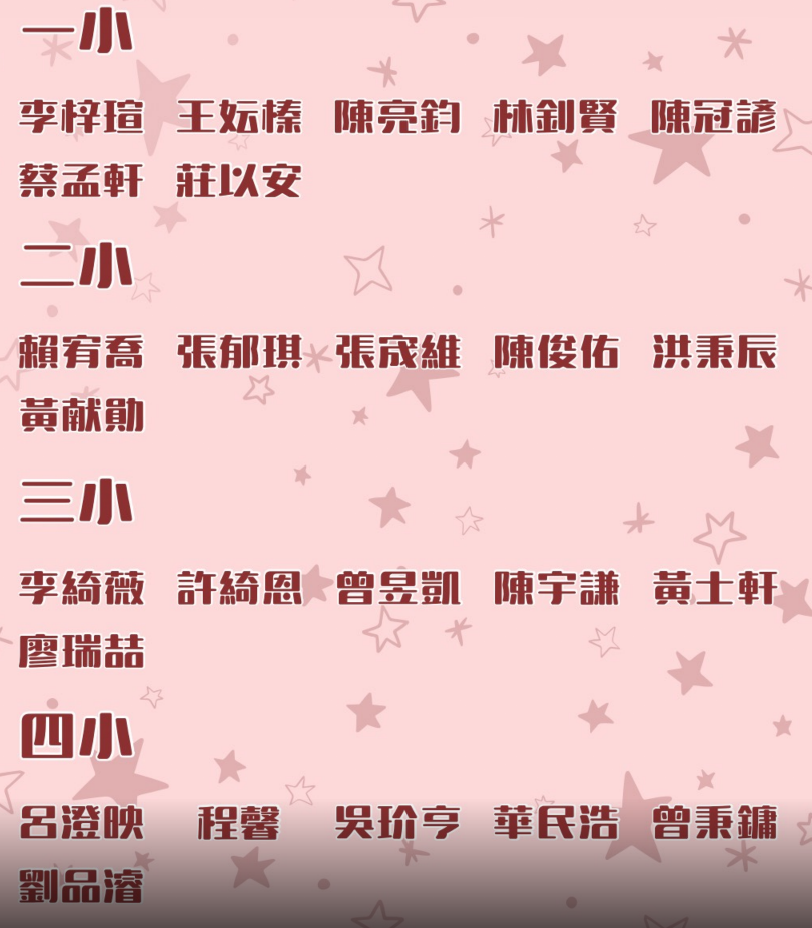
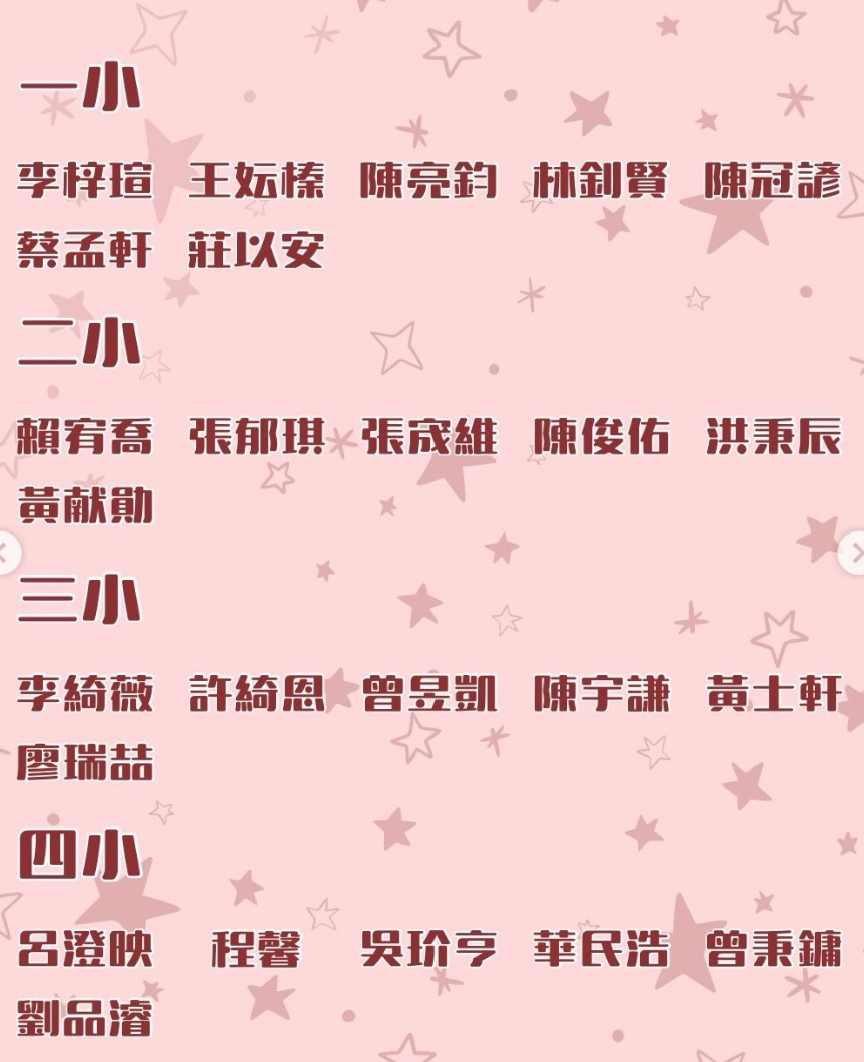
fix: display supplied team roster images directly

diff --git a/predeparture/styles.css b/predeparture/styles.css
@@ -1,2 +1,11 @@
-:root{--paper:#fffaf4;--cream:#f4e8db;--ink:#3b3336;--text:#5b4d50;--rose:#a84b63;--line:#e3d0c9;--soft:#edd0d5;--max:1180px}*{box-sizing:border-box}html{scroll-behavior:smooth;scroll-padding-top:145px}body{margin:0;background:var(--paper);color:var(--text);font-family:"Noto Sans TC","Microsoft JhengHei",sans-serif;line-height:1.8}h1,h2,h3,p,figure{margin:0}h1,h2,h3{color:var(--ink);line-height:1.25;letter-spacing:-.045em}a{color:inherit;text-underline-offset:4px}img{display:block;max-width:100%;height:auto}button,input{font:inherit}[hidden]{display:none!important}:focus-visible{outline:3px solid var(--rose);outline-offset:5px}.shell{width:min(var(--max),calc(100% - 64px));margin-inline:auto}.skip{position:fixed;z-index:100;left:16px;top:8px;transform:translateY(-150%);padding:10px 16px;color:white;background:var(--ink)}.skip:focus{transform:none}header{border-bottom:1px solid var(--line);background:var(--paper)}.header-row{display:flex;justify-content:space-between;align-items:center;min-height:84px;gap:16px}.brand{display:flex;align-items:center;gap:12px;text-decoration:none;font-size:14px;font-weight:900;color:var(--ink);letter-spacing:.08em}.brand img{border-radius:50%}.brand small{display:block;font-size:11px;font-weight:500;letter-spacing:0}.home-link{font-size:13px;font-weight:700}.hero{display:grid;grid-template-columns:1.35fr .8fr;gap:72px;align-items:center;padding-block:88px}.eyebrow{font-size:12px;letter-spacing:.13em;color:var(--rose);font-weight:900;margin-bottom:18px}.camp-name{font-size:16px;font-weight:700;margin-bottom:16px}h1{font-size:clamp(40px,5.6vw,72px);font-weight:900;line-height:1.22}h1 em{font-style:normal;color:var(--rose)}.intro{margin-top:28px;font-size:16px}.button{display:inline-flex;align-items:center;gap:24px;margin-top:28px;padding:12px 24px;background:var(--ink);color:var(--paper);border-radius:40px;font-weight:700;text-decoration:none;min-height:48px;transition:background .2s}.button:hover{background:var(--rose)}.trip-ticket{border:1px solid var(--line);border-radius:20px;background:var(--cream);overflow:hidden;transform:rotate(2deg);box-shadow:10px 15px 0 #edd0d550}.ticket-top{padding:26px 30px;border-bottom:1px dashed #bfa69c}.ticket-top span{font-size:10px;letter-spacing:.15em;font-weight:900;color:var(--rose)}.ticket-top b{display:block;margin-top:12px;color:var(--ink);font-size:44px;line-height:1.15;letter-spacing:-.03em}.trip-ticket dl{margin:0;padding:22px 30px;display:grid;gap:15px}.trip-ticket dt{font-size:11px;color:var(--rose);font-weight:700}.trip-ticket dd{margin:2px 0 0;font-weight:700;font-size:15px}.trip-ticket>p{padding:16px 30px 22px;border-top:1px dashed #bfa69c;font-size:13px}.section-nav{position:sticky;top:0;z-index:20;border-block:1px solid var(--line);background:var(--paper)}.section-nav .shell{display:flex;gap:28px;overflow-x:auto;scrollbar-width:thin}.section-nav a{display:flex;align-items:center;min-height:62px;flex-shrink:0;font-size:14px;font-weight:700;text-decoration:none;border-bottom:3px solid transparent}.section-nav a:hover,.section-nav a:focus-visible{color:var(--rose);border-bottom-color:var(--rose)}.section{padding-block:80px;scroll-margin-top:8px}.section-heading{display:flex;justify-content:space-between;gap:36px;align-items:end;margin-bottom:32px}.section-heading h2{font-size:clamp(30px,3.3vw,44px);font-weight:900}.section-heading>p,.section-heading>div>p:not(.eyebrow){font-size:14px}.section-heading .eyebrow{margin-bottom:12px}.meeting-grid{display:grid;grid-template-columns:1fr 1fr;gap:24px}.meeting-card{border:1px solid var(--line);border-radius:20px;padding:32px;background:var(--paper)}.meeting-card.departure{background:var(--cream);border-color:#cdb5aa}.date-tag{color:var(--rose);font-size:12px;letter-spacing:.12em;font-weight:900;margin-bottom:16px}.meeting-card h3{font-size:24px}.big-time{color:var(--ink);font-size:clamp(30px,3vw,42px);font-weight:900;letter-spacing:-.03em;margin-top:12px}.location{font-size:20px;font-weight:700;color:var(--ink);margin:8px 0 18px}.meeting-card>p:not(.date-tag):not(.big-time):not(.location){font-size:14px}.text-link{display:inline-block;color:var(--rose);font-weight:700;font-size:14px;margin-top:20px}.breakfast{margin-top:18px;border-top:1px solid #cdb5aa;padding-top:16px;color:#88384e;font-weight:900}.tinted{background:var(--cream)}.progress-text{font-weight:700;color:var(--rose);margin-top:12px}progress{display:block;width:100%;height:7px;margin-bottom:28px;accent-color:var(--rose);border:0;border-radius:10px;background:var(--line)}progress::-webkit-progress-bar{background:var(--line);border-radius:10px}progress::-webkit-progress-value{background:var(--rose);border-radius:10px}.packing-grid{display:grid;grid-template-columns:1fr 1fr;gap:12px}.pack-item{display:flex;align-items:flex-start;gap:16px;border:1px solid var(--line);background:var(--paper);padding:20px;border-radius:12px;cursor:pointer}.pack-item:has(input:checked){background:#efe5e0;border-color:#b89396}.pack-item:has(input:checked) strong{text-decoration:line-through;color:#736162}.pack-item input{flex:0 0 auto;width:22px;height:22px;margin:4px 0 0;accent-color:var(--rose);cursor:pointer}.pack-item strong,.pack-item small{display:block}.pack-item strong{font-size:16px;color:var(--ink)}.pack-item small{font-size:13px;margin-top:4px}.reminder-grid{display:grid;grid-template-columns:repeat(3,1fr);gap:28px;margin-top:36px}.reminder-grid article{border-top:2px solid var(--rose);padding-top:18px}.mini-label{font-size:10px;font-weight:900;letter-spacing:.1em;color:var(--rose)}.reminder-grid h3{font-size:19px;margin:10px 0}.reminder-grid p{font-size:14px}.schedule-grid{display:grid;grid-template-columns:repeat(3,1fr);gap:30px}.day{border-top:1px solid var(--line);padding-top:24px;min-width:0}.day-heading{display:flex;gap:20px;align-items:center}.day-number{font-size:64px;font-weight:900;line-height:1;color:var(--rose);letter-spacing:-.07em}.day-heading p{font-size:10px;letter-spacing:.1em}.day-heading h3{font-size:20px;margin-top:8px}.day-caption{font-size:14px;margin:20px 0;color:var(--rose);font-weight:700}.timeline{list-style:none;padding:0;margin:0}.timeline li{display:grid;grid-template-columns:116px 1fr;gap:12px;padding:13px 0;border-top:1px solid var(--line);font-size:13px}.time{font-variant-numeric:tabular-nums;font-size:12px}.timeline strong{font-size:14px;color:var(--ink)}.timeline small{display:block;font-size:11px;margin-top:5px}.night{background:#3b3336;color:#f3e3df}.night h2,.night h3{color:var(--paper)}.night .eyebrow{color:#f3b8c6}.night-warning{display:flex;align-items:center;flex-wrap:wrap;gap:16px 28px;padding:24px 28px;border:1px solid #967379;background:#503b41;border-radius:12px}.night-warning span{font-size:12px;color:#f3b8c6}.night-warning strong{color:white;font-size:24px}.night-warning p{font-size:14px}.night-grid{display:grid;grid-template-columns:1fr 1fr;gap:48px;margin-top:36px}.night-grid h3{font-size:22px}.night-grid ul{padding-left:22px;margin-bottom:0}.night-grid li{padding:5px 0;font-size:15px}.night-footer{margin-top:32px;padding-top:24px;border-top:1px solid #756066;color:#f3b8c6;font-weight:900;letter-spacing:.07em}.map-legend{display:flex;flex-wrap:wrap;gap:24px;font-size:14px}.marker{display:inline-block;width:15px;height:15px;transform:rotate(45deg);margin-right:10px;vertical-align:middle}.base{background:#008fcd}.cabin{background:#ffc328}.map-frame{border:1px solid var(--line);padding:28px;border-radius:16px;background:white}.map-frame img{width:100%;max-width:900px;margin:auto;image-rendering:auto}.map-frame figcaption{margin-top:20px;padding-top:18px;border-top:1px solid var(--line);font-size:13px}.group-search{max-width:550px;margin-bottom:30px}.group-search label{display:block;font-size:13px;font-weight:700;margin-bottom:8px}.group-search input{width:100%;min-height:50px;padding:10px 16px;border:1px solid #ab8582;border-radius:10px;background:var(--paper);color:var(--ink)}#search-status{font-size:12px;margin-top:8px}.groups-grid{display:grid;grid-template-columns:repeat(3,1fr);gap:18px}.group{padding:24px;background:var(--paper);border:1px solid var(--line);border-radius:16px}.group-heading{display:flex;justify-content:space-between;align-items:center;border-bottom:1px solid var(--line);padding-bottom:16px}.group-heading h3{font-size:26px;color:var(--rose)}.group-heading span{font-size:11px}.group ul{display:grid;grid-template-columns:repeat(2,1fr);list-style:none;padding:0;margin:16px 0 0;gap:10px 18px}.group li{font-size:17px;font-weight:700;color:var(--ink)}.originals{margin-top:28px;border-top:1px solid var(--line);padding-top:20px}.originals summary{cursor:pointer;min-height:44px;font-weight:700;color:var(--rose)}.original-grid{display:grid;grid-template-columns:repeat(3,1fr);gap:20px}.original-grid img{border-radius:10px}.safety-list{list-style:none;counter-reset:safety;padding:0;display:grid;grid-template-columns:1fr 1fr;gap:0 36px}.safety-list li{counter-increment:safety;display:flex;gap:20px;padding:22px 0;border-top:1px solid var(--line);font-size:14px}.safety-list li:before{content:counter(safety,decimal-leading-zero);font-weight:900;font-size:22px;color:var(--rose);min-width:30px}.closing{margin-top:60px;text-align:center;padding:64px 24px;background:var(--cream);border-radius:20px}.closing h2{font-size:clamp(28px,3.5vw,42px);margin-bottom:22px}.closing p:not(.eyebrow){font-size:15px}footer{display:flex;flex-wrap:wrap;justify-content:space-between;gap:16px;border-top:1px solid var(--line);padding-block:28px;font-size:12px}footer strong{color:var(--ink)}
-@media(min-width:1600px){.hero{padding-block:110px}}@media(max-width:1000px){.hero{gap:40px;grid-template-columns:1.2fr .8fr}.ticket-top b{font-size:34px}.schedule-grid{gap:18px}.timeline li{grid-template-columns:98px 1fr;gap:8px}.timeline .time{font-size:11px}.groups-grid{grid-template-columns:repeat(2,1fr)}.section-nav .shell{gap:22px}}@media(max-width:700px){.shell{width:calc(100% - 36px)}.header-row{min-height:72px}.brand{font-size:12px;gap:8px}.brand small{font-size:10px}.home-link{font-size:12px}.hero{grid-template-columns:1fr;padding-block:46px;gap:36px}.camp-name{font-size:13px}.intro{font-size:14px;margin-top:22px}.trip-ticket{transform:none}.ticket-top{display:flex;justify-content:space-between;align-items:center;padding:20px}.ticket-top b{font-size:26px;margin:0}.ticket-top span{max-width:120px}.trip-ticket dl{padding:20px;gap:12px}.trip-ticket>p{padding:16px 20px}.section-nav .shell{gap:24px;width:100%;padding-inline:18px}.section-nav a{font-size:13px;min-height:54px}.section{padding-block:48px}.section-heading{display:block;margin-bottom:24px}.section-heading>p,.section-heading>div+div{margin-top:16px}.meeting-grid,.packing-grid,.reminder-grid,.schedule-grid,.night-grid,.safety-list,.original-grid{grid-template-columns:1fr}.meeting-card{padding:24px}.meeting-grid{gap:16px}.big-time{font-size:34px}.location{font-size:19px}.pack-item{padding:16px}.reminder-grid{gap:24px}.schedule-grid{gap:36px}.timeline li{grid-template-columns:130px 1fr;font-size:14px}.timeline .time{font-size:13px}.day-number{font-size:58px}.night-warning{padding:20px;display:block}.night-warning strong{display:block;font-size:23px;margin:8px 0}.night-grid{gap:30px}.night-grid li{font-size:14px}.night-footer{font-size:13px}.map-legend{margin-top:20px}.map-frame{padding:12px}.map-frame figcaption{font-size:12px}.groups-grid{gap:12px}.group{padding:18px 14px}.group-heading h3{font-size:24px}.group-heading span{font-size:10px}.group ul{grid-template-columns:1fr;gap:8px}.group li{font-size:16px}.closing{padding:40px 20px;margin-top:32px}footer{display:block}footer>*{display:block;margin-bottom:8px}}@media(prefers-reduced-motion:reduce){html{scroll-behavior:auto}*{transition:none!important}}@media print{header,.section-nav,.button,.home-link,.group-search{display:none}body{background:white;font-size:11pt}.shell{width:100%}.hero,.section{padding-block:24px}.trip-ticket{transform:none;box-shadow:none}.section-heading h2{font-size:24pt}.night{background:white;color:var(--ink)}.night h2,.night h3,.night-warning strong{color:var(--ink)}.night-warning{background:white}.night .eyebrow,.night-footer{color:var(--rose)}.groups-grid{grid-template-columns:repeat(3,1fr)}.group,.meeting-card,.pack-item{break-inside:avoid}.schedule-grid{grid-template-columns:repeat(3,1fr)}.tinted{background:white}.originals{display:none}.map-frame img{max-width:650px}}
+:root{--paper:#fffaf4;--cream:#f4e8db;--ink:#3b3336;--text:#5b4d50;--rose:#a84b63;--line:#e3d0c9;--soft:#edd0d5;--max:1180px}*{box-sizing:border-box}html{scroll-behavior:smooth;scroll-padding-top:145px}body{margin:0;background:var(--paper);color:var(--text);font-family:"Noto Sans TC","Microsoft JhengHei",sans-serif;line-height:1.8}h1,h2,h3,p,figure{margin:0}h1,h2,h3{color:var(--ink);line-height:1.25;letter-spacing:-.045em}a{color:inherit;text-underline-offset:4px}img{display:block;max-width:100%;height:auto}button,input{font:inherit}[hidden]{display:none!important}:focus-visible{outline:3px solid var(--rose);outline-offset:5px}.shell{width:min(var(--max),calc(100% - 64px));margin-inline:auto}.skip{position:fixed;z-index:100;left:16px;top:8px;transform:translateY(-150%);padding:10px 16px;color:white;background:var(--ink)}.skip:focus{transform:none}header{border-bottom:1px solid var(--line);background:var(--paper)}.header-row{display:flex;justify-content:space-between;align-items:center;min-height:84px;gap:16px}.brand{display:flex;align-items:center;gap:12px;text-decoration:none;font-size:14px;font-weight:900;color:var(--ink);letter-spacing:.08em}.brand img{border-radius:50%}.brand small{display:block;font-size:11px;font-weight:500;letter-spacing:0}.home-link{font-size:13px;font-weight:700}.hero{display:grid;grid-template-columns:1.35fr .8fr;gap:72px;align-items:center;padding-block:88px}.eyebrow{font-size:12px;letter-spacing:.13em;color:var(--rose);font-weight:900;margin-bottom:18px}.camp-name{font-size:16px;font-weight:700;margin-bottom:16px}h1{font-size:clamp(40px,5.6vw,72px);font-weight:900;line-height:1.22}h1 em{font-style:normal;color:var(--rose)}.intro{margin-top:28px;font-size:16px}.button{display:inline-flex;align-items:center;gap:24px;margin-top:28px;padding:12px 24px;background:var(--ink);color:var(--paper);border-radius:40px;font-weight:700;text-decoration:none;min-height:48px;transition:background .2s}.button:hover{background:var(--rose)}.trip-ticket{border:1px solid var(--line);border-radius:20px;background:var(--cream);overflow:hidden;transform:rotate(2deg);box-shadow:10px 15px 0 #edd0d550}.ticket-top{padding:26px 30px;border-bottom:1px dashed #bfa69c}.ticket-top span{font-size:10px;letter-spacing:.15em;font-weight:900;color:var(--rose)}.ticket-top b{display:block;margin-top:12px;color:var(--ink);font-size:44px;line-height:1.15;letter-spacing:-.03em}.trip-ticket dl{margin:0;padding:22px 30px;display:grid;gap:15px}.trip-ticket dt{font-size:11px;color:var(--rose);font-weight:700}.trip-ticket dd{margin:2px 0 0;font-weight:700;font-size:15px}.trip-ticket>p{padding:16px 30px 22px;border-top:1px dashed #bfa69c;font-size:13px}.section-nav{position:sticky;top:0;z-index:20;border-block:1px solid var(--line);background:var(--paper)}.section-nav .shell{display:flex;gap:28px;overflow-x:auto;scrollbar-width:thin}.section-nav a{display:flex;align-items:center;min-height:62px;flex-shrink:0;font-size:14px;font-weight:700;text-decoration:none;border-bottom:3px solid transparent}.section-nav a:hover,.section-nav a:focus-visible{color:var(--rose);border-bottom-color:var(--rose)}.section{padding-block:80px;scroll-margin-top:8px}.section-heading{display:flex;justify-content:space-between;gap:36px;align-items:end;margin-bottom:32px}.section-heading h2{font-size:clamp(30px,3.3vw,44px);font-weight:900}.section-heading>p,.section-heading>div>p:not(.eyebrow){font-size:14px}.section-heading .eyebrow{margin-bottom:12px}.meeting-grid{display:grid;grid-template-columns:1fr 1fr;gap:24px}.meeting-card{border:1px solid var(--line);border-radius:20px;padding:32px;background:var(--paper)}.meeting-card.departure{background:var(--cream);border-color:#cdb5aa}.date-tag{color:var(--rose);font-size:12px;letter-spacing:.12em;font-weight:900;margin-bottom:16px}.meeting-card h3{font-size:24px}.big-time{color:var(--ink);font-size:clamp(30px,3vw,42px);font-weight:900;letter-spacing:-.03em;margin-top:12px}.location{font-size:20px;font-weight:700;color:var(--ink);margin:8px 0 18px}.meeting-card>p:not(.date-tag):not(.big-time):not(.location){font-size:14px}.text-link{display:inline-block;color:var(--rose);font-weight:700;font-size:14px;margin-top:20px}.breakfast{margin-top:18px;border-top:1px solid #cdb5aa;padding-top:16px;color:#88384e;font-weight:900}.tinted{background:var(--cream)}.progress-text{font-weight:700;color:var(--rose);margin-top:12px}progress{display:block;width:100%;height:7px;margin-bottom:28px;accent-color:var(--rose);border:0;border-radius:10px;background:var(--line)}progress::-webkit-progress-bar{background:var(--line);border-radius:10px}progress::-webkit-progress-value{background:var(--rose);border-radius:10px}.packing-grid{display:grid;grid-template-columns:1fr 1fr;gap:12px}.pack-item{display:flex;align-items:flex-start;gap:16px;border:1px solid var(--line);background:var(--paper);padding:20px;border-radius:12px;cursor:pointer}.pack-item:has(input:checked){background:#efe5e0;border-color:#b89396}.pack-item:has(input:checked) strong{text-decoration:line-through;color:#736162}.pack-item input{flex:0 0 auto;width:22px;height:22px;margin:4px 0 0;accent-color:var(--rose);cursor:pointer}.pack-item strong,.pack-item small{display:block}.pack-item strong{font-size:16px;color:var(--ink)}.pack-item small{font-size:13px;margin-top:4px}.reminder-grid{display:grid;grid-template-columns:repeat(3,1fr);gap:28px;margin-top:36px}.reminder-grid article{border-top:2px solid var(--rose);padding-top:18px}.mini-label{font-size:10px;font-weight:900;letter-spacing:.1em;color:var(--rose)}.reminder-grid h3{font-size:19px;margin:10px 0}.reminder-grid p{font-size:14px}.schedule-grid{display:grid;grid-template-columns:repeat(3,1fr);gap:30px}.day{border-top:1px solid var(--line);padding-top:24px;min-width:0}.day-heading{display:flex;gap:20px;align-items:center}.day-number{font-size:64px;font-weight:900;line-height:1;color:var(--rose);letter-spacing:-.07em}.day-heading p{font-size:10px;letter-spacing:.1em}.day-heading h3{font-size:20px;margin-top:8px}.day-caption{font-size:14px;margin:20px 0;color:var(--rose);font-weight:700}.timeline{list-style:none;padding:0;margin:0}.timeline li{display:grid;grid-template-columns:116px 1fr;gap:12px;padding:13px 0;border-top:1px solid var(--line);font-size:13px}.time{font-variant-numeric:tabular-nums;font-size:12px}.timeline strong{font-size:14px;color:var(--ink)}.timeline small{display:block;font-size:11px;margin-top:5px}.night{background:#3b3336;color:#f3e3df}.night h2,.night h3{color:var(--paper)}.night .eyebrow{color:#f3b8c6}.night-warning{display:flex;align-items:center;flex-wrap:wrap;gap:16px 28px;padding:24px 28px;border:1px solid #967379;background:#503b41;border-radius:12px}.night-warning span{font-size:12px;color:#f3b8c6}.night-warning strong{color:white;font-size:24px}.night-warning p{font-size:14px}.night-grid{display:grid;grid-template-columns:1fr 1fr;gap:48px;margin-top:36px}.night-grid h3{font-size:22px}.night-grid ul{padding-left:22px;margin-bottom:0}.night-grid li{padding:5px 0;font-size:15px}.night-footer{margin-top:32px;padding-top:24px;border-top:1px solid #756066;color:#f3b8c6;font-weight:900;letter-spacing:.07em}.map-legend{display:flex;flex-wrap:wrap;gap:24px;font-size:14px}.marker{display:inline-block;width:15px;height:15px;transform:rotate(45deg);margin-right:10px;vertical-align:middle}.base{background:#008fcd}.cabin{background:#ffc328}.map-frame{border:1px solid var(--line);padding:28px;border-radius:16px;background:white}.map-frame img{width:100%;max-width:900px;margin:auto;image-rendering:auto}.map-frame figcaption{margin-top:20px;padding-top:18px;border-top:1px solid var(--line);font-size:13px}.safety-list{list-style:none;counter-reset:safety;padding:0;display:grid;grid-template-columns:1fr 1fr;gap:0 36px}.safety-list li{counter-increment:safety;display:flex;gap:20px;padding:22px 0;border-top:1px solid var(--line);font-size:14px}.safety-list li:before{content:counter(safety,decimal-leading-zero);font-weight:900;font-size:22px;color:var(--rose);min-width:30px}.closing{margin-top:60px;text-align:center;padding:64px 24px;background:var(--cream);border-radius:20px}.closing h2{font-size:clamp(28px,3.5vw,42px);margin-bottom:22px}.closing p:not(.eyebrow){font-size:15px}footer{display:flex;flex-wrap:wrap;justify-content:space-between;gap:16px;border-top:1px solid var(--line);padding-block:28px;font-size:12px}footer strong{color:var(--ink)}
+@media(min-width:1600px){.hero{padding-block:110px}}@media(max-width:1000px){.hero{gap:40px;grid-template-columns:1.2fr .8fr}.ticket-top b{font-size:34px}.schedule-grid{gap:18px}.timeline li{grid-template-columns:98px 1fr;gap:8px}.timeline .time{font-size:11px}.section-nav .shell{gap:22px}}@media(max-width:700px){.shell{width:calc(100% - 36px)}.header-row{min-height:72px}.brand{font-size:12px;gap:8px}.brand small{font-size:10px}.home-link{font-size:12px}.hero{grid-template-columns:1fr;padding-block:46px;gap:36px}.camp-name{font-size:13px}.intro{font-size:14px;margin-top:22px}.trip-ticket{transform:none}.ticket-top{display:flex;justify-content:space-between;align-items:center;padding:20px}.ticket-top b{font-size:26px;margin:0}.ticket-top span{max-width:120px}.trip-ticket dl{padding:20px;gap:12px}.trip-ticket>p{padding:16px 20px}.section-nav .shell{gap:24px;width:100%;padding-inline:18px}.section-nav a{font-size:13px;min-height:54px}.section{padding-block:48px}.section-heading{display:block;margin-bottom:24px}.section-heading>p,.section-heading>div+div{margin-top:16px}.meeting-card{padding:24px}.meeting-grid{gap:16px}.big-time{font-size:34px}.location{font-size:19px}.pack-item{padding:16px}.reminder-grid{gap:24px}.schedule-grid{gap:36px}.timeline li{grid-template-columns:130px 1fr;font-size:14px}.timeline .time{font-size:13px}.day-number{font-size:58px}.night-warning{padding:20px;display:block}.night-warning strong{display:block;font-size:23px;margin:8px 0}.night-grid{gap:30px}.night-grid li{font-size:14px}.night-footer{font-size:13px}.map-legend{margin-top:20px}.map-frame{padding:12px}.map-frame figcaption{font-size:12px}.closing{padding:40px 20px;margin-top:32px}footer{display:block}footer>*{display:block;margin-bottom:8px}}@media(prefers-reduced-motion:reduce){html{scroll-behavior:auto}*{transition:none!important}}@media print{body{background:white;font-size:11pt}.shell{width:100%}.hero,.section{padding-block:24px}.trip-ticket{transform:none;box-shadow:none}.section-heading h2{font-size:24pt}.night{background:white;color:var(--ink)}.night h2,.night h3,.night-warning strong{color:var(--ink)}.night-warning{background:white}.night .eyebrow,.night-footer{color:var(--rose)}.schedule-grid{grid-template-columns:repeat(3,1fr)}.tinted{background:white}.map-frame img{max-width:650px}}
+
+/* Keep the supplied roster photos legible and in order on every screen. */
+.roster-images { display: grid; gap: 32px; max-width: 870px; margin-inline: auto; }
+.roster-image { margin: 0; }
+.roster-image a { display: block; border-radius: 12px; overflow: hidden; }
+.roster-image img { display: block; width: 100%; height: auto; }
+.roster-image figcaption { margin-top: 12px; font-size: 13px; }
+@media (max-width: 700px) { .roster-images { gap: 24px; } }
+@media print { .roster-image { break-inside: avoid; } }

diff --git a/predeparture/index.html b/predeparture/index.html
@@ -19,7 +19,26 @@
 <section id="schedule" class="section shell"><div class="section-heading"><div><p class="eyebrow">03 / THE ITINERARY</p><h2>三天，滿滿的新回憶。</h2></div><p>從校園破冰到安平散步，<br>集合時間請以本頁集合通知為準。</p></div><div class="schedule-grid"><article class="day"><div class="day-heading"><span class="day-number">09</span><div><p>FRI / OCTOBER</p><h3>10/9（五）</h3></div></div><p class="day-caption">校園裡，先認識彼此</p><ol class="timeline"><li><span class="time">18:30–19:00</span><span><strong>集合</strong></span></li><li><span class="time">19:00–19:30</span><span><strong>破冰</strong></span></li><li><span class="time">19:40–21:10</span><span><strong>夜教</strong></span></li><li><span class="time">21:30–22:00</span><span><strong>宵夜</strong></span></li><li><span class="time">22:00 起</span><span><strong>盥洗休息</strong></span></li></ol></article><article class="day"><div class="day-heading"><span class="day-number">10</span><div><p>SAT / OCTOBER</p><h3>10/10（六）</h3></div></div><p class="day-caption">走馬瀨，一起全力玩</p><ol class="timeline"><li><span class="time">07:30–08:00</span><span><strong>集合／登車</strong><small>請於 07:50 前到體育館門口</small></span></li><li><span class="time">08:00–09:30</span><span><strong>路程</strong></span></li><li><span class="time">09:30–10:00</span><span><strong>放行李</strong></span></li><li><span class="time">10:00–12:30</span><span><strong>陸大地</strong></span></li><li><span class="time">12:30–13:30</span><span><strong>午餐</strong></span></li><li><span class="time">13:30–15:30</span><span><strong>水大地</strong></span></li><li><span class="time">15:30–17:00</span><span><strong>盥洗時間</strong></span></li><li><span class="time">17:00–20:00</span><span><strong>烤肉</strong></span></li><li><span class="time">20:00–22:00</span><span><strong>晚會</strong></span></li><li><span class="time">22:00 起</span><span><strong>休息就寢</strong></span></li></ol></article><article class="day"><div class="day-heading"><span class="day-number">11</span><div><p>SUN / OCTOBER</p><h3>10/11（日）</h3></div></div><p class="day-caption">帶著回憶，走進安平</p><ol class="timeline"><li><span class="time">07:30–08:00</span><span><strong>集合退房</strong></span></li><li><span class="time">08:00–08:30</span><span><strong>早餐</strong></span></li><li><span class="time">08:45–11:00</span><span><strong>賭場遊戲</strong></span></li><li><span class="time">11:10–11:30</span><span><strong>午餐</strong></span></li><li><span class="time">11:30–12:00</span><span><strong>結業＋頒獎</strong></span></li><li><span class="time">12:00–12:30</span><span><strong>拿行李集合</strong></span></li><li><span class="time">12:30–13:30</span><span><strong>前往安平</strong></span></li><li><span class="time">13:30–16:00</span><span><strong>逛街</strong></span></li><li><span class="time">16:00–18:00</span><span><strong>回中山</strong></span></li></ol></article></div></section>
 <section id="night" class="section night"><div class="shell"><div class="section-heading"><div><p class="eyebrow">04 / AFTER DARK</p><h2>夜教，準備好再出發。</h2></div><p>10/9（五）18:30–19:00<br>機電大樓 4055-1 教室集合</p></div><div class="night-warning"><span>服裝提醒</span><strong>禁止穿著紅色衣物</strong><p>包含內衣褲，請出門前先確認。</p></div><div class="night-grid"><article><h3>活動安全規範</h3><ul><li>禁止擅自脫隊、奔跑及推擠。</li><li>禁止觸碰或攻擊扮鬼工作人員。</li><li>禁止破壞道具、擅闖非活動區域。</li><li>禁止惡作劇或故意驚嚇他人。</li><li>身體不適，請立即告知隊輔！</li></ul></article><article><h3>夜教傳統禁忌</h3><ul><li>不隨意呼喊他人全名。</li><li>不亂撿地上的不明物品。</li><li>不吹口哨、大聲喧嘩。</li><li>不隨意回頭或探索黑暗角落。</li></ul></article></div><p class="night-footer">安全第一！安全第一！安全第一！</p></div></section>
 <section id="map" class="section shell"><div class="section-heading"><div><p class="eyebrow">05 / CAMP MAP</p><h2>到營區後，看這張。</h2></div><div class="map-legend"><span><i class="marker base"></i>大本營</span><span><i class="marker cabin"></i>小木屋（住宿）</span></div></div><figure class="map-frame"><a href="assets/camp-map.png" target="_blank" rel="noopener noreferrer" aria-label="開啟營區地圖原圖，另開分頁"><img src="assets/camp-map.png" alt="走馬瀨農場營區地圖，藍色菱形標示大本營，橘色菱形標示小木屋住宿區" width="574" height="398" loading="lazy"></a><figcaption>點擊地圖開啟原圖，可放大查看。藍色菱形為大本營，橘色菱形為小木屋住宿區；實際集合動線請跟隨隊輔指引。</figcaption></figure></section>
-<section id="groups" class="section tinted"><div class="shell"><div class="section-heading"><div><p class="eyebrow">06 / FIND YOUR TEAM</p><h2>找到你的小隊夥伴。</h2></div><p>十個小組，一起把陌生變熟悉。<br>姓名依提供名單整理，可於下方核對原圖。</p></div><div class="group-search" hidden><label for="name-search">搜尋姓名或小組（例如：一小）</label><input id="name-search" type="search" placeholder="輸入姓名，找到你的小組" autocomplete="off"><p id="search-status" role="status">顯示全部 10 個小組</p></div><div class="groups-grid"><article class="group" data-search="一小 李梓瑄 王妡榛 陳亮釗 林訓賢 陳冠諺 蔡孟軒 莊以安"><div class="group-heading"><h3>一小</h3><span>7 位夥伴</span></div><ul><li>李梓瑄</li><li>王妡榛</li><li>陳亮釗</li><li>林訓賢</li><li>陳冠諺</li><li>蔡孟軒</li><li>莊以安</li></ul></article><article class="group" data-search="二小 賴宥喬 張郁琪 張宸維 陳俊佑 洪秉辰 黃献勛"><div class="group-heading"><h3>二小</h3><span>6 位夥伴</span></div><ul><li>賴宥喬</li><li>張郁琪</li><li>張宸維</li><li>陳俊佑</li><li>洪秉辰</li><li>黃献勛</li></ul></article><article class="group" data-search="三小 李綺薇 許綺恩 曾昱凱 陳宇謙 黃士軒 廖瑞喆"><div class="group-heading"><h3>三小</h3><span>6 位夥伴</span></div><ul><li>李綺薇</li><li>許綺恩</li><li>曾昱凱</li><li>陳宇謙</li><li>黃士軒</li><li>廖瑞喆</li></ul></article><article class="group" data-search="四小 呂澄映 程馨 吳玠亨 華民浩 曾秉鏞 劉品澄"><div class="group-heading"><h3>四小</h3><span>6 位夥伴</span></div><ul><li>呂澄映</li><li>程馨</li><li>吳玠亨</li><li>華民浩</li><li>曾秉鏞</li><li>劉品澄</li></ul></article><article class="group" data-search="五小 王俞媗 廖俐雯 阮宇佑 劉緯辰 何秉叡 賴宥銨"><div class="group-heading"><h3>五小</h3><span>6 位夥伴</span></div><ul><li>王俞媗</li><li>廖俐雯</li><li>阮宇佑</li><li>劉緯辰</li><li>何秉叡</li><li>賴宥銨</li></ul></article><article class="group" data-search="六小 林宜欣 游姿芹 張丞鎧 阮禾瀚 謝名鎧 陳昱瑋"><div class="group-heading"><h3>六小</h3><span>6 位夥伴</span></div><ul><li>林宜欣</li><li>游姿芹</li><li>張丞鎧</li><li>阮禾瀚</li><li>謝名鎧</li><li>陳昱瑋</li></ul></article><article class="group" data-search="七小 林沂蓓 余宥蓁 周瑞邦 蔡禔恩 許宥睿 劉昱志"><div class="group-heading"><h3>七小</h3><span>6 位夥伴</span></div><ul><li>林沂蓓</li><li>余宥蓁</li><li>周瑞邦</li><li>蔡禔恩</li><li>許宥睿</li><li>劉昱志</li></ul></article><article class="group" data-search="八小 李珮薰 楊云萱 張祐愷 林立勛 王浩宇 王彥逸"><div class="group-heading"><h3>八小</h3><span>6 位夥伴</span></div><ul><li>李珮薰</li><li>楊云萱</li><li>張祐愷</li><li>林立勛</li><li>王浩宇</li><li>王彥逸</li></ul></article><article class="group" data-search="九小 莊毓晨 周彥呈 陳家祐 鄭睿宇 曾聖哲 莊祐全"><div class="group-heading"><h3>九小</h3><span>6 位夥伴</span></div><ul><li>莊毓晨</li><li>周彥呈</li><li>陳家祐</li><li>鄭睿宇</li><li>曾聖哲</li><li>莊祐全</li></ul></article><article class="group" data-search="十小 曾芷甯 鄭富勻 李宇倫 林佑辰 蔡冠瑾 趙濬宇"><div class="group-heading"><h3>十小</h3><span>6 位夥伴</span></div><ul><li>曾芷甯</li><li>鄭富勻</li><li>李宇倫</li><li>林佑辰</li><li>蔡冠瑾</li><li>趙濬宇</li></ul></article></div><p id="no-results" hidden>找不到符合的小組，請試試其他姓名，或查看下方名單原圖。</p><details class="originals"><summary>查看小組名單原圖</summary><div class="original-grid"><a href="assets/groups-1-4.png" target="_blank" rel="noopener noreferrer" aria-label="開啟一至四小名單原圖，另開分頁"><img src="assets/groups-1-4.png" alt="一至四小小組名單原圖" width="812" height="928" loading="lazy"></a><a href="assets/groups-5-8.png" target="_blank" rel="noopener noreferrer" aria-label="開啟五至八小名單原圖，另開分頁"><img src="assets/groups-5-8.png" alt="五至八小小組名單原圖" width="828" height="972" loading="lazy"></a><a href="assets/groups-9-10.png" target="_blank" rel="noopener noreferrer" aria-label="開啟九至十小名單原圖，另開分頁"><img src="assets/groups-9-10.png" alt="九至十小小組名單原圖" width="798" height="542" loading="lazy"></a></div></details></div></section>
+<section id="groups" class="section tinted">
+<div class="shell">
+<div class="section-heading"><div><p class="eyebrow">06 / FIND YOUR TEAM</p><h2>找到你的小隊夥伴。</h2></div>
+<p>一至十小名單如下。<br>點擊圖片可開啟原圖放大查看。</p></div>
+<div class="roster-images"><figure class="roster-image">
+<a href="assets/groups-1-4.png?v=20261008-2" target="_blank" rel="noopener noreferrer" aria-label="開啟一至四小名單原圖，另開分頁">
+<img src="assets/groups-1-4.png?v=20261008-2" alt="一至四小小隊名單，以圖片中的姓名及小隊標題為準" width="864" height="1062" loading="lazy">
+</a><figcaption>一至四小｜點擊圖片可開啟原圖放大查看</figcaption>
+</figure>
+<figure class="roster-image">
+<a href="assets/groups-5-8.png?v=20261008-2" target="_blank" rel="noopener noreferrer" aria-label="開啟五至八小名單原圖，另開分頁">
+<img src="assets/groups-5-8.png?v=20261008-2" alt="五至八小小隊名單，以圖片中的姓名及小隊標題為準" width="870" height="1066" loading="lazy">
+</a><figcaption>五至八小｜點擊圖片可開啟原圖放大查看</figcaption>
+</figure>
+<figure class="roster-image">
+<a href="assets/groups-9-10.png?v=20261008-2" target="_blank" rel="noopener noreferrer" aria-label="開啟九至十小名單原圖，另開分頁">
+<img src="assets/groups-9-10.png?v=20261008-2" alt="九至十小小隊名單，以圖片中的姓名及小隊標題為準" width="868" height="640" loading="lazy">
+</a><figcaption>九至十小｜點擊圖片可開啟原圖放大查看</figcaption>
+</figure></div>
+</div></section>
 <section id="safety" class="section shell"><div class="section-heading"><div><p class="eyebrow">07 / TAKE CARE</p><h2>玩得開心，也彼此照顧。</h2></div><p>遇到問題，第一時間找隊輔。<br>你的安全永遠是第一優先。</p></div><ol class="safety-list"><li>活動期間請聽從隊輔指示；任何問題或突發狀況，請立即向隊輔反映。</li><li>請勿擅自離隊；若有特殊需求需暫時離開，務必先告知隊輔。</li><li>隨時留意集合時間，準時集合，不要遲到。</li><li>活動期間雖未明文禁止飲酒，但請自行斟酌並注意安全；若因飲酒造成任何問題，須自行承擔相關責任。</li><li>身體不適請立即告知隊輔或現場工作人員，千萬不要勉強自己。</li><li>妥善保管個人及貴重物品；若有遺失，主辦單位恕不負保管責任。</li><li>安全第一！安全第一！安全第一！</li><li>帶著愉快又期待的心，一起享受這三天的宿營。</li><li>積極參與每個活動，認識新朋友，一起留下美好的宿營回憶！</li></ol><div class="closing"><p class="eyebrow">SEE YOU AT CAMP</p><h2>帶好行李，也帶上期待。</h2><p>互相照顧、互相配合，讓這次宿營順利又難忘。<br>我們集合時見！</p><a class="button" href="#meeting">再確認一次集合資訊 ↑</a></div></section>
 </main><footer class="shell"><strong>2026 中山五系聯合迎新宿營</strong><span>醫科・外文・光電・機電・生科</span><a href="../index.html">回活動首頁 ↗</a></footer>
 </body></html>

diff --git a/predeparture/notice.js b/predeparture/notice.js
@@ -23,19 +23,4 @@
       status.textContent += '（此瀏覽器無法儲存進度）';
     }
   }));
-  const input = document.querySelector('#name-search');
-  const groups = [...document.querySelectorAll('.group')];
-  document.querySelector('.group-search').hidden = false;
-  input.addEventListener('input', () => {
-    const query = input.value.trim().replace(/\s+/g, '');
-    let count = 0;
-    groups.forEach(group => {
-      const match = group.dataset.search.replace(/\s+/g, '').includes(query);
-      group.hidden = !match;
-      if (match) count++;
-    });
-    document.querySelector('#search-status').textContent = query
-      ? `找到 ${count} 個小組` : '顯示全部 10 個小組';
-    document.querySelector('#no-results').hidden = count !== 0;
-  });
 })();
